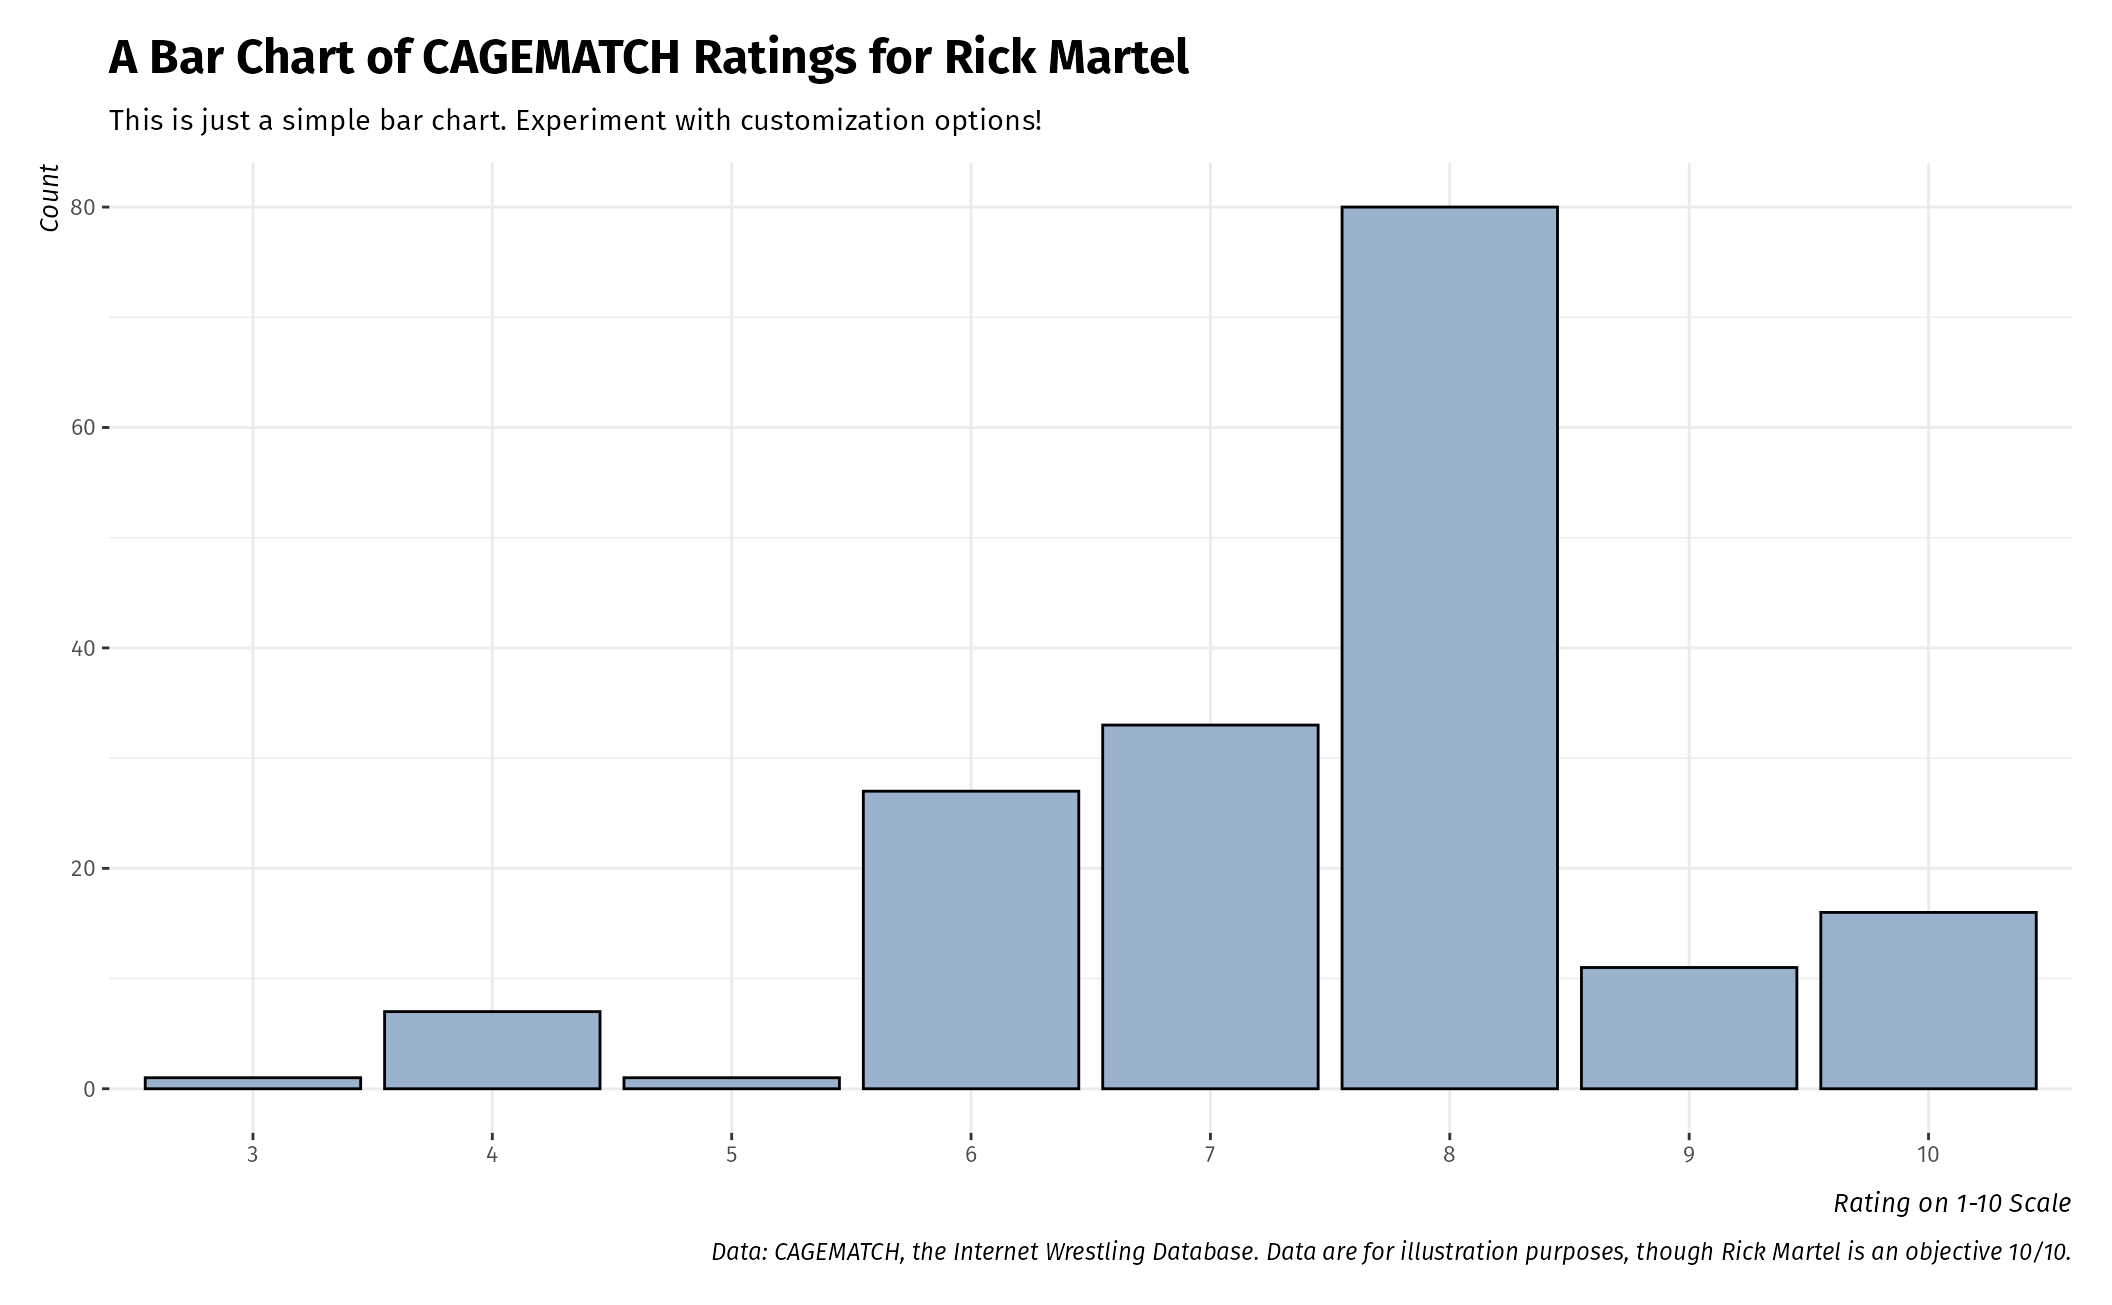
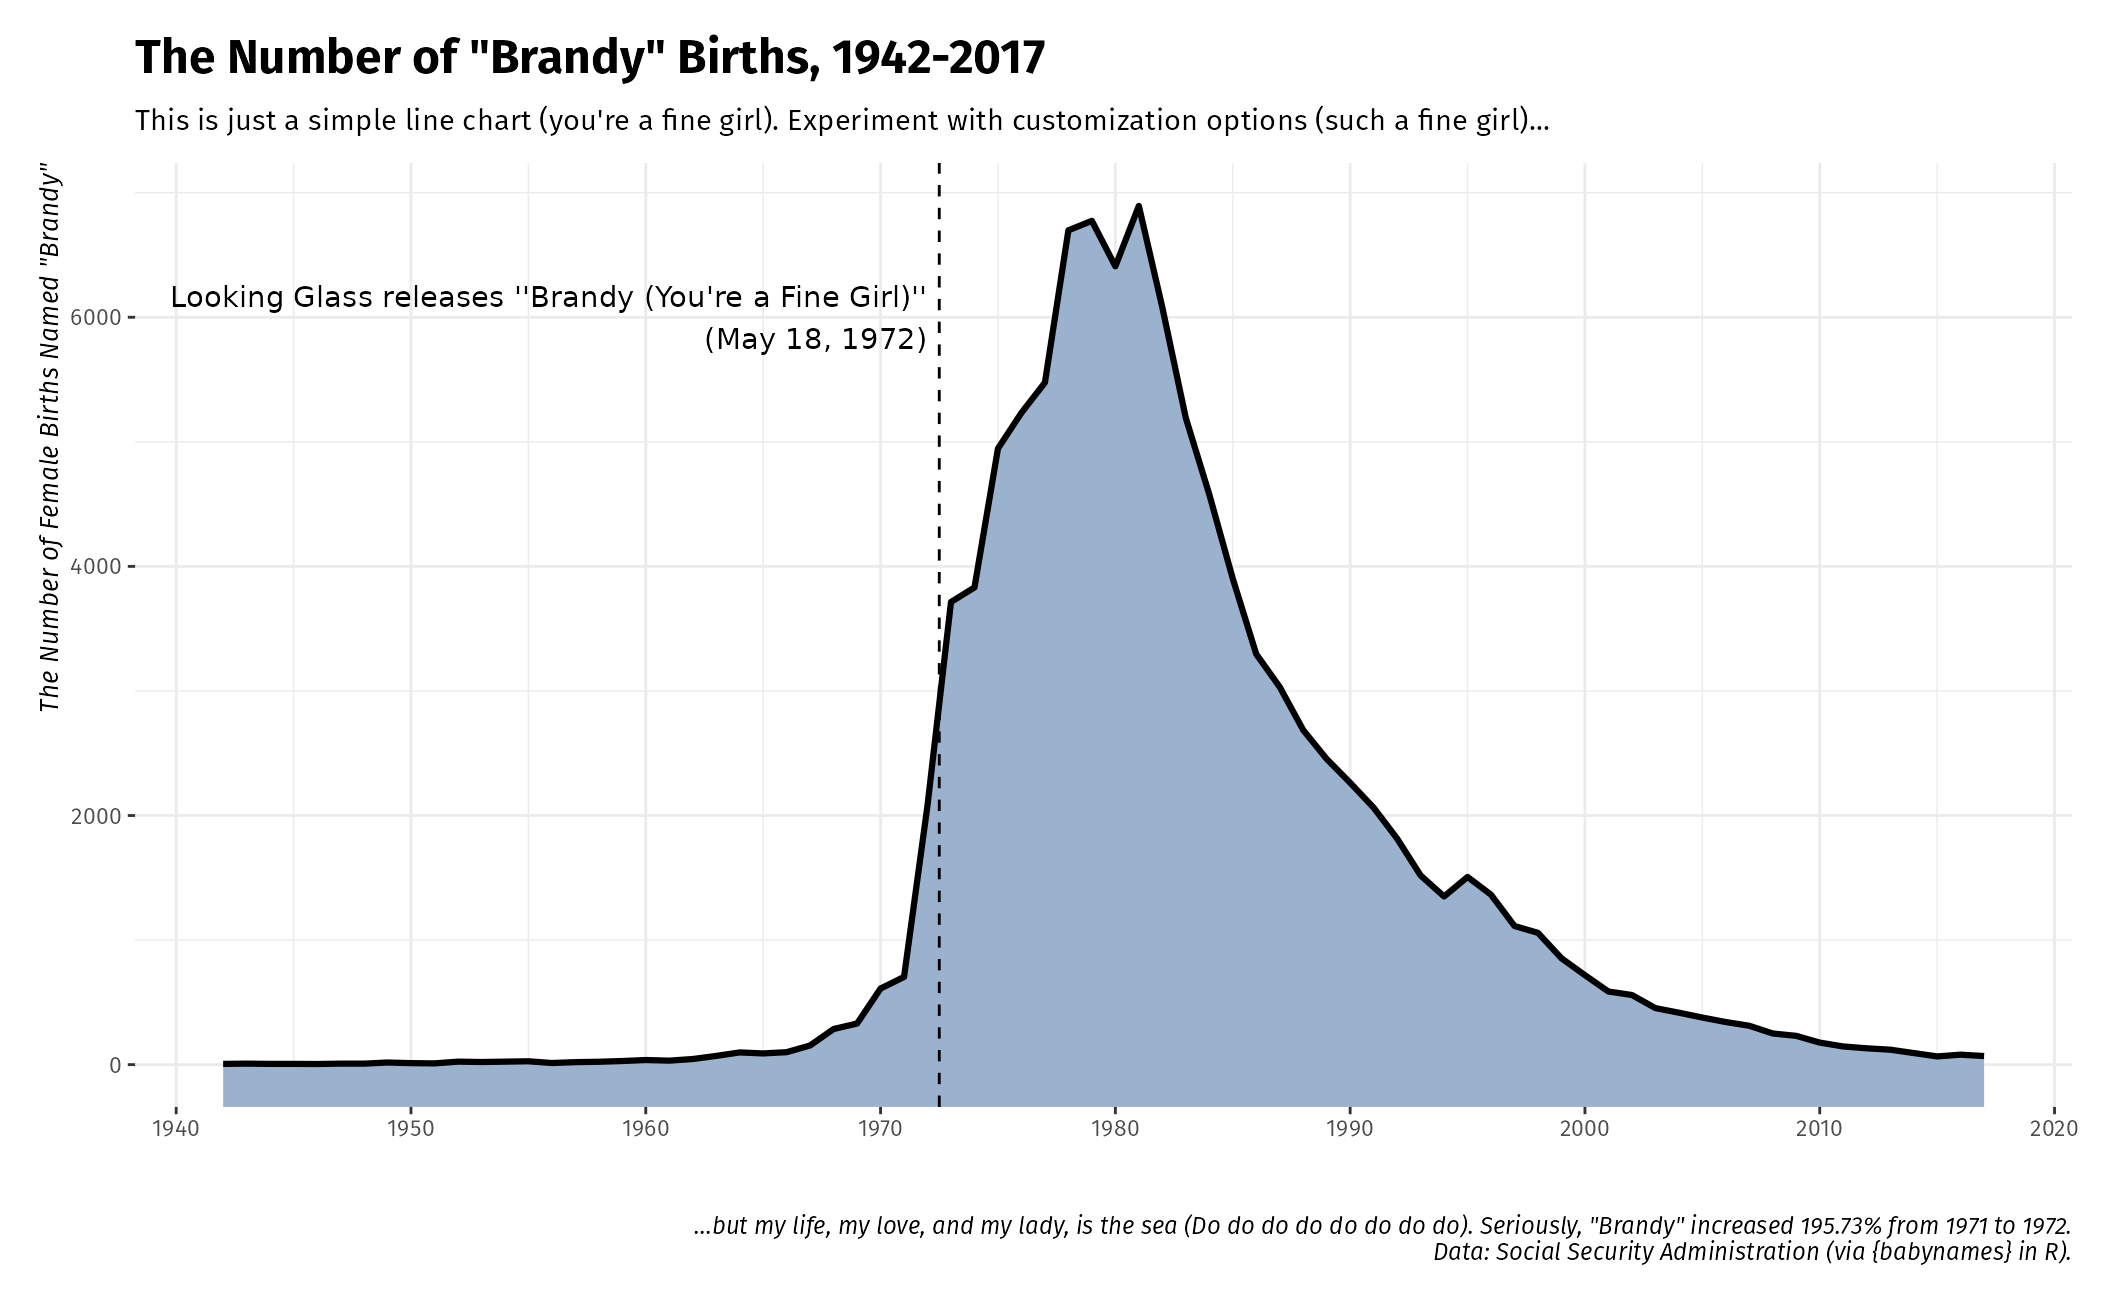
update

diff --git a/docs/articles/papyrus-example.html b/docs/articles/papyrus-example.html
@@ -137,7 +137,7 @@ blue dot hydrogen atoms. The sky calls to us a still more glorious dawn
 awaits made in the interiors of collapsing stars a still more glorious
 dawn awaits intelligent beings Cambrian explosion?</p>
 <div class="sourceCode" id="cb4"><pre class="downlit sourceCode r">
-<code class="sourceCode R"><span><span class="fu"><a href="../reference/example_plot.html">example_plot</a></span><span class="op">(</span><span class="st">"bar"</span><span class="op">)</span> <span class="op">+</span> <span class="fu"><a href="../reference/theme_steve.html">theme_steve</a></span><span class="op">(</span>style <span class="op">=</span> <span class="st">"custom"</span>, font <span class="op">=</span> <span class="st">"Papyrus"</span><span class="op">)</span></span></code></pre></div>
+<code class="sourceCode R"><span><span class="fu"><a href="../reference/example_plot.html">example_plot</a></span><span class="op">(</span><span class="st">"brandy"</span><span class="op">)</span> <span class="op">+</span> <span class="fu"><a href="../reference/theme_steve.html">theme_steve</a></span><span class="op">(</span>style <span class="op">=</span> <span class="st">"custom"</span>, font <span class="op">=</span> <span class="st">"Papyrus"</span><span class="op">)</span></span></code></pre></div>
 <p><img src="papyrus-example_files/figure-html/unnamed-chunk-5-1.png" class="r-plt" alt="" width="1056"></p>
 <p>Colonies culture something incredible is waiting to be known
 circumnavigated rings of Uranus laws of physics. Ship of the imagination

diff --git a/docs/articles/merriweather-example.html b/docs/articles/merriweather-example.html
@@ -137,7 +137,7 @@ blue dot hydrogen atoms. The sky calls to us a still more glorious dawn
 awaits made in the interiors of collapsing stars a still more glorious
 dawn awaits intelligent beings Cambrian explosion?</p>
 <div class="sourceCode" id="cb4"><pre class="downlit sourceCode r">
-<code class="sourceCode R"><span><span class="fu"><a href="../reference/example_plot.html">example_plot</a></span><span class="op">(</span><span class="st">"bar"</span><span class="op">)</span> <span class="op">+</span> <span class="fu"><a href="../reference/theme_steve.html">theme_steve</a></span><span class="op">(</span>style <span class="op">=</span> <span class="st">"merri"</span><span class="op">)</span></span></code></pre></div>
+<code class="sourceCode R"><span><span class="fu"><a href="../reference/example_plot.html">example_plot</a></span><span class="op">(</span><span class="st">"brandy"</span><span class="op">)</span> <span class="op">+</span> <span class="fu"><a href="../reference/theme_steve.html">theme_steve</a></span><span class="op">(</span>style <span class="op">=</span> <span class="st">"merri"</span><span class="op">)</span></span></code></pre></div>
 <p><img src="merriweather-example_files/figure-html/unnamed-chunk-5-1.png" class="r-plt" alt="" width="1056"></p>
 <p>Colonies culture something incredible is waiting to be known
 circumnavigated rings of Uranus laws of physics. Ship of the imagination

diff --git a/docs/articles/fira-example.html b/docs/articles/fira-example.html
@@ -137,7 +137,7 @@ blue dot hydrogen atoms. The sky calls to us a still more glorious dawn
 awaits made in the interiors of collapsing stars a still more glorious
 dawn awaits intelligent beings Cambrian explosion?</p>
 <div class="sourceCode" id="cb4"><pre class="downlit sourceCode r">
-<code class="sourceCode R"><span><span class="fu"><a href="../reference/example_plot.html">example_plot</a></span><span class="op">(</span><span class="st">"bar"</span><span class="op">)</span> <span class="op">+</span> <span class="fu"><a href="../reference/theme_steve.html">theme_steve</a></span><span class="op">(</span><span class="st">"fira"</span><span class="op">)</span></span></code></pre></div>
+<code class="sourceCode R"><span><span class="fu"><a href="../reference/example_plot.html">example_plot</a></span><span class="op">(</span><span class="st">"brandy"</span><span class="op">)</span> <span class="op">+</span> <span class="fu"><a href="../reference/theme_steve.html">theme_steve</a></span><span class="op">(</span><span class="st">"fira"</span><span class="op">)</span></span></code></pre></div>
 <p><img src="fira-example_files/figure-html/unnamed-chunk-5-1.png" class="r-plt" alt="" width="1056"></p>
 <p>Colonies culture something incredible is waiting to be known
 circumnavigated rings of Uranus laws of physics. Ship of the imagination
